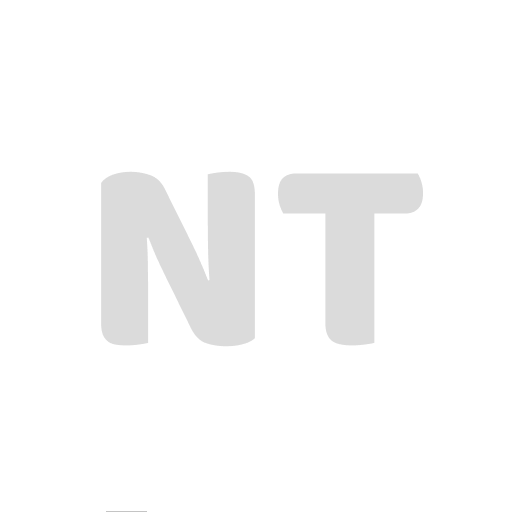
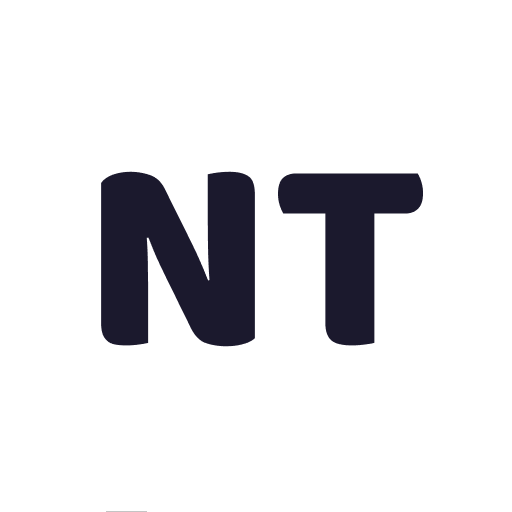
new favixon and adding valuable links

Changed region(s): [[0.1875, 0.3125, 0.5, 0.6875], [0.5312, 0.3125, 0.8438, 0.6875]]

diff --git a/README.md b/README.md
@@ -1,5 +1,11 @@
 # nugs-t
 
+Relevant Links
+
+- <https://medium.com/google-developer-experts/workbox-4-implementing-refresh-to-update-version-flow-using-the-workbox-window-module-41284967e79c>
+- <https://github.com/novis-opscale/nuxt-pwa-test/blob/master/layouts/default.vue>
+- <https://github.com/nuxt-community/pwa-module/issues/401>
+
 ## Build Setup
 
 ```bash
